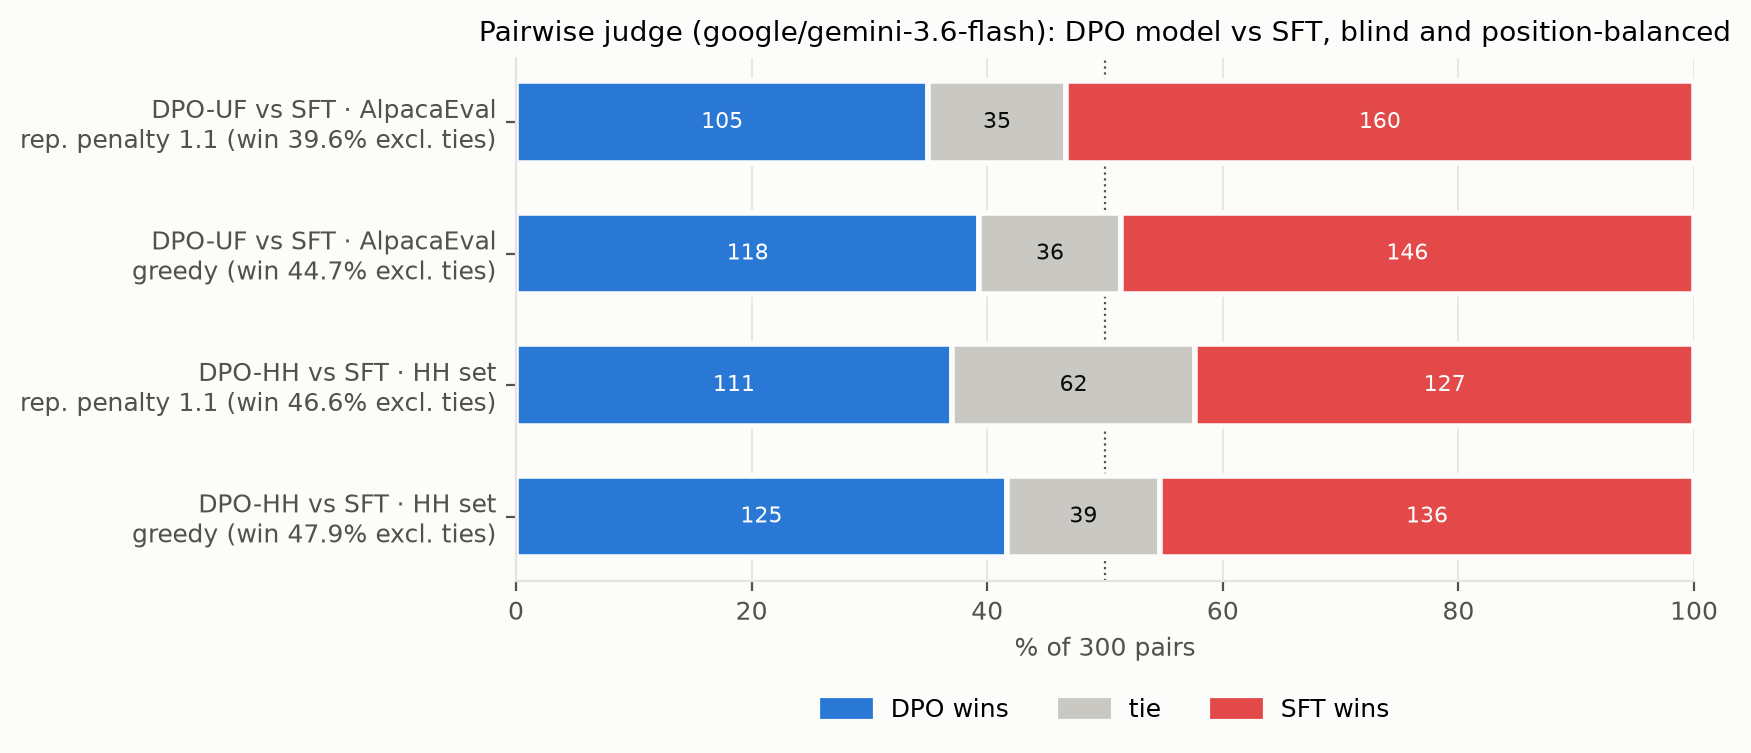
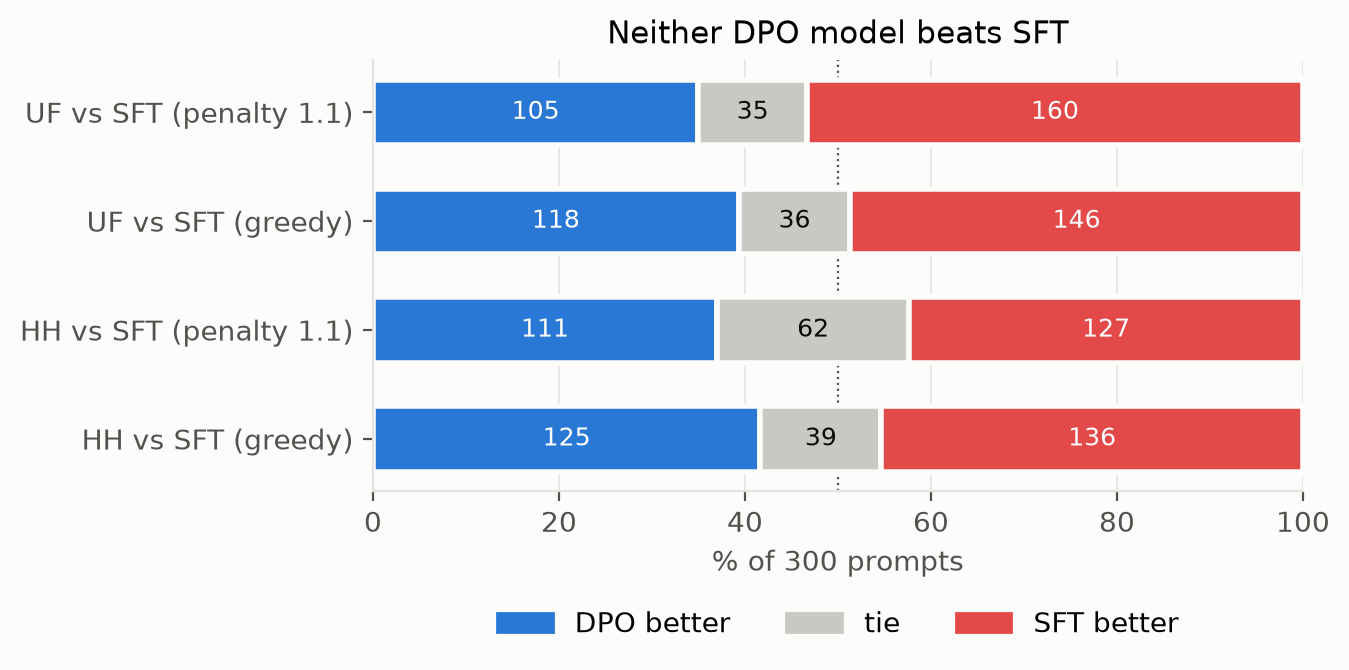
Simplify report figures to one chart per image
Validation-only DPO curves (loss, accuracy, margin) comparing HH and UF; single LoRA margin chart; per-criterion persona charts; sorted HH category bars; finding-first titles.

diff --git a/scripts/make_figures.py b/scripts/make_figures.py
@@ -2,18 +2,22 @@
 
     python scripts/make_figures.py          # writes outputs/figures/*.png
 
-Figures:
-  sft_training.png        SFT train loss (raw + EMA) and validation loss, best checkpoint marked
-  dpo_training.png        DPO loss / reward accuracy / reward margin for HH-RLHF and UltraFeedback
-  lora_training.png       LoRA-DPO held-out loss / accuracy / margin (log-prob units) for the 3 runs
-  decoding_pilot.png      share of responses hitting max_new_tokens per decoding setting
-  judge_dpo_vs_sft.png    win / tie / loss of each DPO model vs SFT (greedy and rp1.1)
-  judge_hh_categories.png DPO-HH vs SFT win rate per HH category
-  judge_persona.png       LoRA-DPO runs vs base SmolLM2 per criterion
+One idea per figure:
+  sft_loss.png              SFT validation loss and smoothed training loss
+  dpo_val_loss.png          DPO validation loss, HH vs UF
+  dpo_val_accuracy.png      DPO validation reward accuracy, HH vs UF
+  dpo_val_margin.png        DPO validation reward margin, HH vs UF
+  lora_margin.png           persona LoRA runs: held-out margin in log-prob units
+  decoding_pilot.png        share of responses hitting max_new_tokens per decoding setting
+  judge_dpo_vs_sft.png      win / tie / loss of each DPO model vs SFT
+  judge_hh_categories.png   DPO-HH vs SFT win rate per HH category (rep. penalty 1.1)
+  persona_style.png, persona_helpfulness.png, persona_safety.png
+                            persona LoRA runs vs base SmolLM2, one criterion each (rep. penalty 1.1)
 """
 
 from __future__ import annotations
 
+import collections
 import sys
 from pathlib import Path
 
@@ -29,14 +33,14 @@ from alignment.utils import read_json, read_jsonl  # noqa: E402
 
 OUT = ROOT / "outputs" / "figures"
 
-# Validated categorical slots (fixed order) and a blue/grey/red diverging set for win/tie/loss.
+# Validated categorical slots (fixed order) and a blue/grey/red set for win/tie/loss.
 BLUE, ORANGE, AQUA = "#2a78d6", "#eb6834", "#1baf7a"
 WIN, TIE, LOSS = "#2a78d6", "#c9c8c2", "#e34948"
 INK, INK_2, GRID, SURFACE = "#0b0b0b", "#52514e", "#e4e3df", "#fcfcfb"
 
 plt.rcParams.update({
     "figure.facecolor": SURFACE, "axes.facecolor": SURFACE, "savefig.facecolor": SURFACE,
-    "font.size": 9, "axes.titlesize": 10, "axes.labelsize": 9, "axes.labelcolor": INK_2,
+    "font.size": 10, "axes.titlesize": 11, "axes.labelsize": 10, "axes.labelcolor": INK_2,
     "axes.edgecolor": GRID, "axes.grid": True, "grid.color": GRID, "grid.linewidth": 0.6,
     "axes.spines.top": False, "axes.spines.right": False, "xtick.color": INK_2, "ytick.color": INK_2,
     "legend.frameon": False, "lines.linewidth": 2.0, "axes.axisbelow": True,
@@ -53,6 +57,10 @@ def ema(values, alpha=0.1):
     return smoothed
 
 
+def new_figure(height=3.0):
+    return plt.subplots(figsize=(6.0, height))
+
+
 def save(fig, name):
     OUT.mkdir(parents=True, exist_ok=True)
     fig.savefig(OUT / name, dpi=200, bbox_inches="tight")
@@ -60,10 +68,8 @@ def save(fig, name):
     print("wrote", (OUT / name).relative_to(ROOT))
 
 
-def mark_best(ax, step, label="best ckpt"):
-    ax.axvline(step, color=INK_2, linewidth=1, linestyle=(0, (3, 3)))
-    ax.annotate(f"{label} (step {step})", (step, 1), xycoords=("data", "axes fraction"), xytext=(-4, -4),
-                textcoords="offset points", ha="right", va="top", fontsize=8, color=INK_2)
+def end_label(ax, x, y, text, color, dy=0):
+    ax.annotate(text, (x, y), xytext=(6, dy), textcoords="offset points", va="center", fontsize=9, color=color)
 
 
 # ------------------------------------------------------------------------------------------------
@@ -71,113 +77,94 @@ def sft_figure():
     rows = read_jsonl(ROOT / "outputs/sft/metrics.jsonl")
     train = [r for r in rows if r["type"] == "train"]
     evals = [r for r in rows if r["type"] == "eval"]
-    best = read_json(ROOT / "outputs/sft/summary.json")["best_step"]
-    steps = [r["step"] for r in train]
-    fig, ax = plt.subplots(figsize=(6.4, 3.4))
-    ax.plot(steps, [r["train_loss"] for r in train], color=BLUE, linewidth=0.8, alpha=0.35, label="train (per logged step)")
-    ax.plot(steps, ema([r["train_loss"] for r in train]), color=BLUE, label="train (bias-corrected EMA, α=0.1)")
+    fig, ax = new_figure()
+    ax.plot([r["step"] for r in train], ema([r["train_loss"] for r in train]), color=BLUE, label="training (smoothed)")
     ax.plot([r["step"] for r in evals], [r["val_loss"] for r in evals], color=ORANGE, marker="o", markersize=5,
-            label="validation (1,000 ex.)")
-    ax.annotate(f"{evals[0]['val_loss']:.3f} (base model)", (0, evals[0]["val_loss"]), xytext=(6, 6),
-                textcoords="offset points", fontsize=8, color=INK_2)
-    ax.annotate(f"{evals[-1]['val_loss']:.3f}", (evals[-1]["step"], evals[-1]["val_loss"]), xytext=(-4, -12),
-                textcoords="offset points", fontsize=8, color=INK_2, ha="right")
-    mark_best(ax, best)
-    ax.set(xlabel="optimizer step (effective batch 32)", ylabel="response-token NLL",
-           title="SFT on Qwen2.5-0.5B (30k UltraChat examples, 1 epoch)")
+            label="validation")
+    ax.annotate(f"{evals[0]['val_loss']:.3f}", (0, evals[0]["val_loss"]), xytext=(0, 8), textcoords="offset points",
+                ha="center", fontsize=9, color=INK_2)
+    ax.annotate(f"{evals[-1]['val_loss']:.3f}", (evals[-1]["step"], evals[-1]["val_loss"]), xytext=(0, 8),
+                textcoords="offset points", ha="center", fontsize=9, color=INK_2)
+    ax.set(xlabel="optimizer step", ylabel="loss (NLL per response token)",
+           title=f"SFT: validation loss falls from {evals[0]['val_loss']:.3f} to {evals[-1]['val_loss']:.3f}")
     ax.legend(loc="lower left")
-    save(fig, "sft_training.png")
+    save(fig, "sft_loss.png")
 
 
-def dpo_figure():
-    fig, axes = plt.subplots(2, 3, figsize=(11, 5.6), sharex=True)
-    panels = [("loss", "DPO loss"), ("reward_accuracy", "reward accuracy"), ("reward_margin", "reward margin (β·Δ log-prob)")]
-    for row, (track, title) in enumerate([("hh", "HH-RLHF"), ("uf", "UltraFeedback")]):
-        rows = read_jsonl(ROOT / f"outputs/dpo_{track}/metrics.jsonl")
-        train = [r for r in rows if r["type"] == "train"]
-        evals = [r for r in rows if r["type"] == "eval"]
-        best = read_json(ROOT / f"outputs/dpo_{track}/summary.json")["best_step"]
-        for col, (key, label) in enumerate(panels):
-            ax = axes[row, col]
-            values = [r[f"train_{key}"] for r in train]
-            ax.plot([r["step"] for r in train], values, color=BLUE, linewidth=0.8, alpha=0.3)
-            ax.plot([r["step"] for r in train], ema(values), color=BLUE, label="train (bias-corrected EMA, α=0.1)")
-            ax.plot([r["step"] for r in evals], [r[f"val_{key}"] for r in evals], color=ORANGE, marker="o", markersize=4,
-                    label="validation (1,000 pairs)")
-            if key == "loss":
-                ax.axhline(0.6931, color=INK_2, linewidth=0.8, linestyle=":")
-                ax.annotate("ln 2 (policy = reference)", (0, 0.6931), xytext=(4, 3), textcoords="offset points",
-                            fontsize=7, color=INK_2)
-            if key == "reward_accuracy":
-                ax.axhline(0.5, color=INK_2, linewidth=0.8, linestyle=":")
-                ax.set_ylim(0, 1)
-                ax.annotate("step 0: policy = reference,\nall rewards tied -> 0 (strict >)", (0, 0), xytext=(8, 6),
-                            textcoords="offset points", fontsize=7, color=INK_2)
-            mark_best(ax, best, "best")
-            ax.set_title(f"{title}: {label}")
-            if row == 1:
-                ax.set_xlabel("optimizer step (effective batch 32 pairs)")
-    axes[0, 0].legend(loc="lower left", fontsize=8)
-    fig.suptitle("From-scratch DPO from the SFT checkpoint (β = 0.1, LR 1e-6 fixed, 15k pairs, 1 epoch)", y=1.0)
-    fig.tight_layout()
-    save(fig, "dpo_training.png")
+def dpo_evals():
+    data = {}
+    for track in ["hh", "uf"]:
+        data[track] = [r for r in read_jsonl(ROOT / f"outputs/dpo_{track}/metrics.jsonl") if r["type"] == "eval"]
+    return data
+
+
+def dpo_figure(key, name, ylabel, title, skip_step0=False):
+    data = dpo_evals()
+    fig, ax = new_figure()
+    for track, label, color in [("uf", "UltraFeedback", ORANGE), ("hh", "HH-RLHF", BLUE)]:
+        rows = [r for r in data[track] if not (skip_step0 and r["step"] == 0)]
+        steps, values = [r["step"] for r in rows], [r[key] for r in rows]
+        ax.plot(steps, values, color=color, marker="o", markersize=4, label=label)
+        end_label(ax, steps[-1], values[-1], label, color)
+    ax.set(xlabel="optimizer step", ylabel=ylabel, title=title)
+    ax.set_xlim(right=ax.get_xlim()[1] + 90)  # room for the end labels
+    return fig, ax
+
+
+def dpo_figures():
+    fig, ax = dpo_figure("val_loss", "dpo_val_loss.png", "validation DPO loss",
+                         "DPO validation loss (both start at ln 2 = 0.693)")
+    save(fig, "dpo_val_loss.png")
+
+    best = {t: read_json(ROOT / f"outputs/dpo_{t}/summary.json") for t in ["hh", "uf"]}
+    fig, ax = dpo_figure("val_reward_accuracy", "dpo_val_accuracy.png", "validation reward accuracy",
+                         f"DPO reward accuracy: best {best['uf']['best_val_reward_accuracy']:.2f} (UF), "
+                         f"{best['hh']['best_val_reward_accuracy']:.2f} (HH)", skip_step0=True)
+    ax.axhline(0.5, color=INK_2, linewidth=0.8, linestyle=":")
+    ax.annotate("chance", (ax.get_xlim()[0], 0.5), xytext=(4, 4), textcoords="offset points", fontsize=8, color=INK_2)
+    ax.set_ylim(0.45, 0.8)
+    save(fig, "dpo_val_accuracy.png")
+
+    fig, ax = dpo_figure("val_reward_margin", "dpo_val_margin.png", "validation reward margin",
+                         "DPO reward margin keeps growing through training")
+    save(fig, "dpo_val_margin.png")
 
 
 def lora_figure():
-    runs = [("lora_dpo", "3 epochs, β 0.1", BLUE), ("lora_dpo_1ep", "1 epoch, β 0.1", ORANGE),
-            ("lora_dpo_beta05", "3 epochs, β 0.5", AQUA)]
-    fig, axes = plt.subplots(1, 3, figsize=(11, 3.2))
+    runs = [("lora_dpo", "3 epochs, beta 0.1", BLUE), ("lora_dpo_beta05", "3 epochs, beta 0.5", AQUA),
+            ("lora_dpo_1ep", "1 epoch, beta 0.1", ORANGE)]
+    fig, ax = new_figure()
     for run, label, color in runs:
         beta = read_json(ROOT / f"outputs/{run}/config.json")["beta"]
         rows = read_jsonl(ROOT / f"outputs/{run}/metrics.jsonl")
         evals = [({**r, "step": 0} if r.get("type") == "initial_eval" else r) for r in rows if "eval_loss" in r]
         evals = sorted({r["step"]: r for r in evals}.values(), key=lambda r: r["step"])
         steps = [r["step"] for r in evals]
-        series = [
-            [r["eval_loss"] for r in evals],
-            [r["eval_rewards/accuracies"] for r in evals],
-            [r["eval_rewards/margins"] / beta for r in evals],  # log-prob units: comparable across beta
-        ]
-        for index, (ax, values) in enumerate(zip(axes, series)):
-            ax.plot(steps, values, color=color, marker="o", markersize=4, label=label)
-            if index != 1:  # accuracy lines coincide at 1.0, so the legend identifies them there
-                ax.annotate(label, (steps[-1], values[-1]), xytext=(4, 0), textcoords="offset points", fontsize=7,
-                            color=INK_2, va="center")
-    for ax, title in zip(axes, ["held-out DPO loss", "held-out reward accuracy", "held-out margin / β (log-prob units)"]):
-        ax.set_title(title)
-        ax.set_xlabel("optimizer step (effective batch 8)")
-    axes[1].set_ylim(-0.05, 1.05)
-    axes[1].annotate("all three runs: 1.0 from step 10 on", (0.6, 0.4), xycoords="axes fraction", ha="center",
-                     fontsize=8, color=INK_2)
-    axes[0].legend(loc="upper right", fontsize=8)
-    fig.suptitle("LoRA-DPO persona runs on SmolLM2-360M-Instruct (TRL DPOTrainer, 200 train / 20 held-out pairs)", y=1.03)
-    fig.tight_layout()
-    save(fig, "lora_training.png")
+        values = [r["eval_rewards/margins"] / beta for r in evals]
+        ax.plot(steps, values, color=color, marker="o", markersize=4)
+        end_label(ax, steps[-1], values[-1], label, color)
+    ax.set_xlim(right=ax.get_xlim()[1] + 28)
+    ax.set(xlabel="optimizer step", ylabel="held-out margin / beta (log-prob)",
+           title="Persona LoRA: the 3-epoch run moves furthest from the base model")
+    save(fig, "lora_margin.png")
 
 
 def pilot_figure():
     summary = read_json(ROOT / "outputs/pilot/summary.json")
-    settings = [("greedy", "greedy"), ("rp1.1", "rep. penalty\n1.1"), ("rp1.2", "rep. penalty\n1.2"), ("ngram4", "no-repeat\n4-gram")]
+    settings = [("greedy", "greedy"), ("rp1.1", "penalty 1.1"), ("rp1.2", "penalty 1.2"), ("ngram4", "no-repeat\n4-gram")]
     models = [("sft", "SFT", BLUE), ("dpo_uf", "DPO-UF", ORANGE), ("dpo_hh", "DPO-HH", AQUA)]
-    fig, axes = plt.subplots(1, 2, figsize=(10, 3.2))
+    fig, ax = new_figure()
     width = 0.26
     for offset, (model, label, color) in enumerate(models):
         xs = [i + (offset - 1) * (width + 0.02) for i in range(len(settings))]
-        for ax, key, scale in [(axes[0], "truncated_rate", 100), (axes[1], "mean_distinct_3", 1)]:
-            values = [summary[f"{model}__{s}"][key] * scale for s, _ in settings]
-            ax.bar(xs, values, width=width, color=color, label=label)
-            if key == "truncated_rate":
-                for x, value in zip(xs, values):
-                    if value == 0:
-                        ax.annotate("0", (x, 0), xytext=(0, 2), textcoords="offset points", ha="center",
-                                    fontsize=7, color=INK_2)
-    axes[0].set(ylabel="% hitting max_new_tokens (512)", title="Responses that never stop (lower is better)")
-    axes[1].set(ylabel="distinct word-trigram ratio", title="Lexical repetition (higher = less repetition)", ylim=(0.5, 1.0))
-    for ax in axes:
-        ax.set_xticks(range(len(settings)), [label for _, label in settings])
-    axes[0].legend(loc="upper right")
-    fig.suptitle("Decoding pilot: 20 held-out prompts (not in any evaluation set)", y=1.03)
-    fig.tight_layout()
+        values = [100 * summary[f"{model}__{s}"]["truncated_rate"] for s, _ in settings]
+        ax.bar(xs, values, width=width, color=color, label=label)
+        for x, value in zip(xs, values):
+            if value == 0:
+                ax.annotate("0", (x, 0), xytext=(0, 2), textcoords="offset points", ha="center", fontsize=8, color=INK_2)
+    ax.set_xticks(range(len(settings)), [label for _, label in settings])
+    ax.set(ylabel="% of answers that never stop", title="Repetition penalty 1.1 stops most loops")
+    ax.legend(loc="upper right")
     save(fig, "decoding_pilot.png")
 
 
@@ -185,13 +172,12 @@ def stacked_rows(ax, rows):
     """Horizontal 100% bars: (label, wins, ties, losses)."""
 
     for y, (label, wins, ties, losses) in enumerate(rows):
-        total = wins + ties + losses
-        left = 0.0
+        total, left = wins + ties + losses, 0.0
         for count, color in [(wins, WIN), (ties, TIE), (losses, LOSS)]:
             share = 100 * count / total
-            ax.barh(y, share, left=left, height=0.62, color=color, edgecolor=SURFACE, linewidth=2)
+            ax.barh(y, share, left=left, height=0.6, color=color, edgecolor=SURFACE, linewidth=2)
             if share >= 7:
-                ax.text(left + share / 2, y, str(count), ha="center", va="center", fontsize=8,
+                ax.text(left + share / 2, y, str(count), ha="center", va="center", fontsize=9,
                         color="white" if color != TIE else INK)
             left += share
     ax.set_yticks(range(len(rows)), [r[0] for r in rows])
@@ -201,69 +187,69 @@ def stacked_rows(ax, rows):
     ax.grid(axis="y", visible=False)
 
 
+def legend_below(ax, labels):
+    handles = [plt.Rectangle((0, 0), 1, 1, color=c) for c in (WIN, TIE, LOSS)]
+    ax.legend(handles, labels, loc="upper center", bbox_to_anchor=(0.5, -0.22), ncol=3)
+
+
 def judge_dpo_figure():
     rows = []
-    for track, label in [("dpo_uf_vs_sft_alpaca", "DPO-UF vs SFT · AlpacaEval"), ("dpo_hh_vs_sft_hh", "DPO-HH vs SFT · HH set")]:
-        for tag, tag_label in [("rp1.1", "rep. penalty 1.1"), ("greedy", "greedy")]:
+    for track, label in [("dpo_uf_vs_sft_alpaca", "UF vs SFT"), ("dpo_hh_vs_sft_hh", "HH vs SFT")]:
+        for tag, tag_label in [("rp1.1", "penalty 1.1"), ("greedy", "greedy")]:
             c = read_json(ROOT / f"outputs/judged/{tag}/{track}_judged_summary.json")["criteria"]["overall"]
-            rate = 100 * c["win_rate_excluding_ties"]
-            rows.append((f"{label}\n{tag_label} (win {rate:.1f}% excl. ties)", c["wins"], c["ties"], c["losses"]))
-    fig, ax = plt.subplots(figsize=(7.6, 3.4))
+            rows.append((f"{label} ({tag_label})", c["wins"], c["ties"], c["losses"]))
+    fig, ax = new_figure(2.8)
     stacked_rows(ax, rows)
-    ax.set_xlabel("% of 300 pairs")
-    ax.set_title("Pairwise judge (google/gemini-3.6-flash): DPO model vs SFT, blind and position-balanced")
-    handles = [plt.Rectangle((0, 0), 1, 1, color=c) for c in (WIN, TIE, LOSS)]
-    ax.legend(handles, ["DPO wins", "tie", "SFT wins"], loc="upper center", bbox_to_anchor=(0.5, -0.18), ncol=3)
+    ax.set_xlabel("% of 300 prompts")
+    ax.set_title("Neither DPO model beats SFT")
+    legend_below(ax, ["DPO better", "tie", "SFT better"])
     save(fig, "judge_dpo_vs_sft.png")
 
 
 def judge_categories_figure():
-    import collections
-
-    fig, ax = plt.subplots(figsize=(7.2, 4.2))
-    categories = None
-    for tag, color, label, shift in [("rp1.1", BLUE, "rep. penalty 1.1", -0.12), ("greedy", ORANGE, "greedy", 0.12)]:
-        counts = collections.defaultdict(collections.Counter)
-        for r in read_jsonl(ROOT / f"outputs/judged/{tag}/dpo_hh_vs_sft_hh_judged.jsonl"):
-            counts[r["category"]][r["outcomes"]["overall"]] += 1
-        categories = categories or sorted(counts)
-        rates = [100 * counts[c]["win"] / max(1, counts[c]["win"] + counts[c]["loss"]) for c in categories]
-        ax.scatter(rates, [i + shift for i in range(len(categories))], s=46, color=color, label=label, zorder=3,
-                   edgecolor=SURFACE, linewidth=1.5)
-    ax.axvline(50, color=INK_2, linewidth=0.8, linestyle=":")
-    ax.set_yticks(range(len(categories)), [c.replace("_", " ") for c in categories])
+    counts = collections.defaultdict(collections.Counter)
+    for r in read_jsonl(ROOT / "outputs/judged/rp1.1/dpo_hh_vs_sft_hh_judged.jsonl"):
+        counts[r["category"]][r["outcomes"]["overall"]] += 1
+    rates = sorted(((100 * v["win"] / max(1, v["win"] + v["loss"]), c) for c, v in counts.items()), reverse=True)
+    fig, ax = new_figure(3.6)
+    for y, (rate, category) in enumerate(rates):
+        ax.barh(y, rate, height=0.6, color=WIN if rate > 50 else LOSS)
+        ax.annotate(f"{rate:.0f}%", (rate, y), xytext=(4, 0), textcoords="offset points", va="center", fontsize=9, color=INK_2)
+    ax.set_yticks(range(len(rates)), [c.replace("_", " ") for _, c in rates])
     ax.invert_yaxis()
     ax.set_xlim(0, 100)
-    ax.set_xlabel("DPO-HH win rate vs SFT, excluding ties (%)  ·  ~30 pairs per category")
-    ax.set_title("DPO-HH vs SFT by HH-set category")
-    ax.legend(loc="upper center", bbox_to_anchor=(0.5, -0.13), ncol=2)
+    ax.axvline(50, color=INK_2, linewidth=0.8, linestyle=":")
+    ax.grid(axis="y", visible=False)
+    ax.set(xlabel="DPO-HH win rate vs SFT, ties excluded (~30 prompts each)",
+           title="DPO-HH vs SFT by category: wins on hate, cyber abuse, harmful requests")
     save(fig, "judge_hh_categories.png")
 
 
-def judge_persona_figure():
-    runs = [("lora_dpo", "3 epochs, β 0.1"), ("lora_dpo_1ep", "1 epoch, β 0.1"), ("lora_dpo_beta05", "3 epochs, β 0.5")]
-    criteria = ["style", "helpfulness", "safety"]
-    fig, axes = plt.subplots(1, 3, figsize=(11, 2.8), sharey=True)
-    for ax, criterion in zip(axes, criteria):
+def persona_figures():
+    runs = [("lora_dpo", "3 epochs, beta 0.1"), ("lora_dpo_1ep", "1 epoch, beta 0.1"), ("lora_dpo_beta05", "3 epochs, beta 0.5")]
+    titles = {"style": "Persona style: only the 3-epoch run changed",
+              "helpfulness": "Helpfulness vs base model",
+              "safety": "Safety vs base model: mostly ties"}
+    for criterion, title in titles.items():
         rows = []
         for run, label in runs:
             c = read_json(ROOT / f"outputs/judged/rp1.1/{run}_vs_smollm_base_persona_judged_summary.json")["criteria"][criterion]
             rows.append((label, c["wins"], c["ties"], c["losses"]))
+        fig, ax = new_figure(2.4)
         stacked_rows(ax, rows)
-        ax.set_title(criterion)
         ax.set_xlabel("% of 24 prompts")
-    handles = [plt.Rectangle((0, 0), 1, 1, color=c) for c in (WIN, TIE, LOSS)]
-    fig.legend(handles, ["LoRA-DPO wins", "tie", "base SmolLM2 wins"], loc="lower center", ncol=3, bbox_to_anchor=(0.5, -0.12))
-    fig.suptitle("Persona LoRA-DPO vs base SmolLM2-360M-Instruct (judge per criterion, rep. penalty 1.1)", y=1.04)
-    fig.tight_layout()
-    save(fig, "judge_persona.png")
+        ax.set_title(title)
+        legend_below(ax, ["LoRA model better", "tie", "base model better"])
+        save(fig, f"persona_{criterion}.png")
 
 
 if __name__ == "__main__":
+    for old in ["sft_training.png", "dpo_training.png", "lora_training.png", "judge_persona.png"]:
+        (OUT / old).unlink(missing_ok=True)
     sft_figure()
-    dpo_figure()
+    dpo_figures()
     lora_figure()
     pilot_figure()
     judge_dpo_figure()
     judge_categories_figure()
-    judge_persona_figure()
+    persona_figures()
